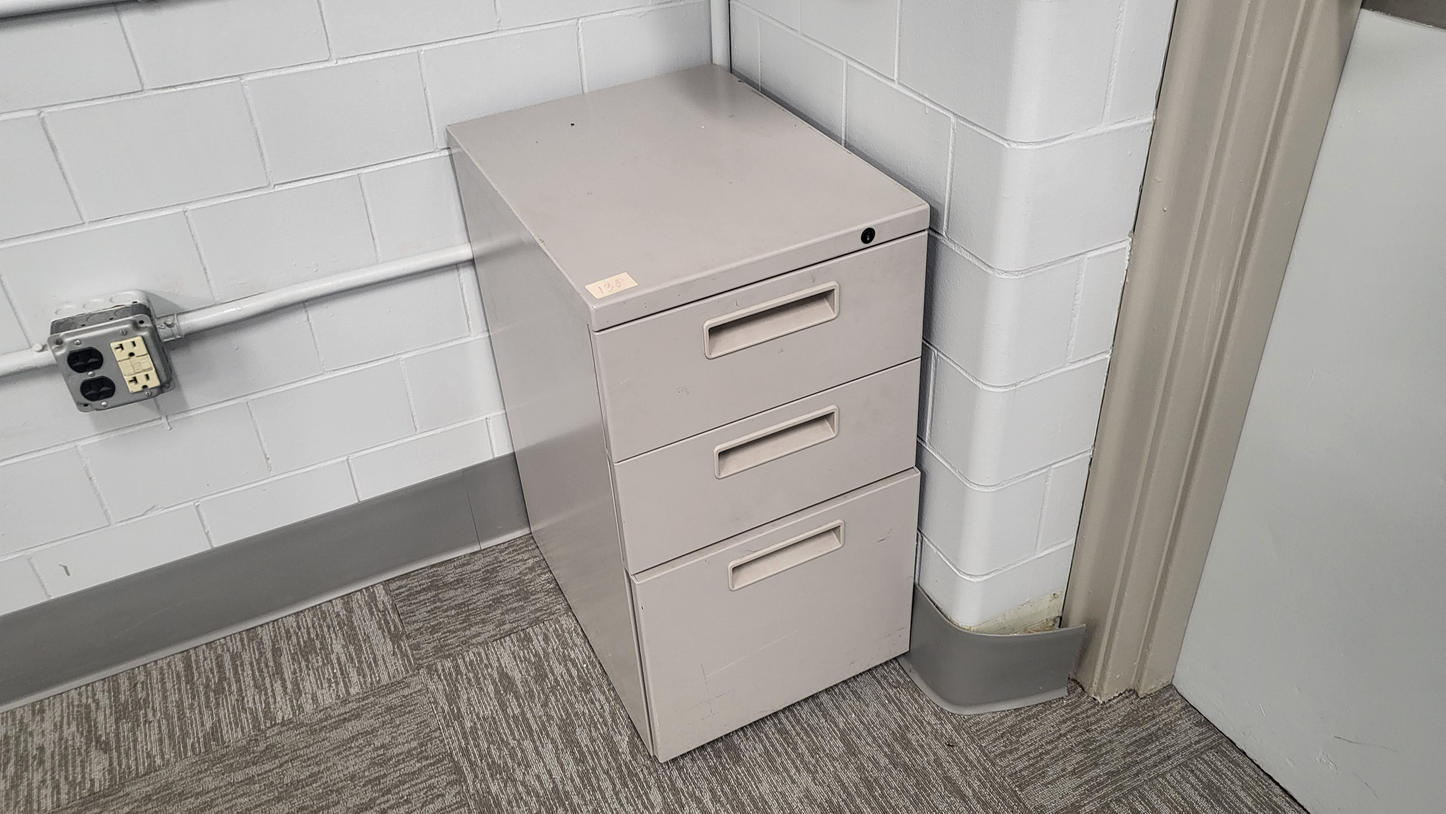
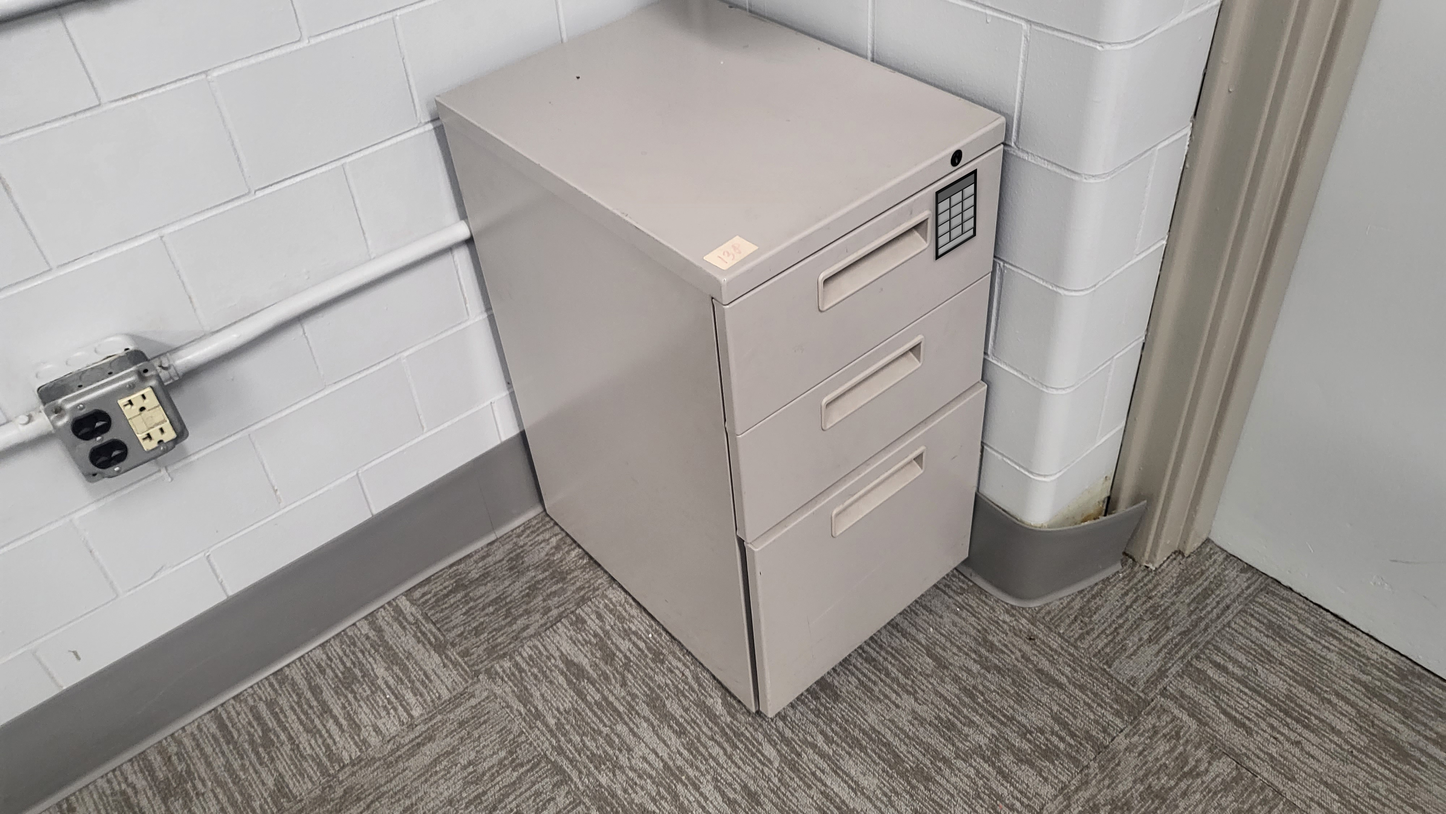
nkjl

diff --git a/small_cabinet.html b/small_cabinet.html
@@ -16,12 +16,28 @@
                 background-image: url('images/small_cabinet.jpg');
                 background-size: cover;
             }
+
+            #numlock {
+                height: 100px;
+                width: auto;
+                position: absolute;
+                left: 925px;
+                top: 165px;
+                cursor: default;
+            }
+
         </style>
+
+        
     </head>
 
 <body>
     <h4>Inventory:</h4>
     <ul id="inventory-items"></ul>
+
+    <a onclick="combination_lock()">
+        <img  id="numlock" src = "Images\lock_number_clickable.png"/>
+    </a>
 
     <script>
             // Retrieve the selectedSymptoms array from localStorage
